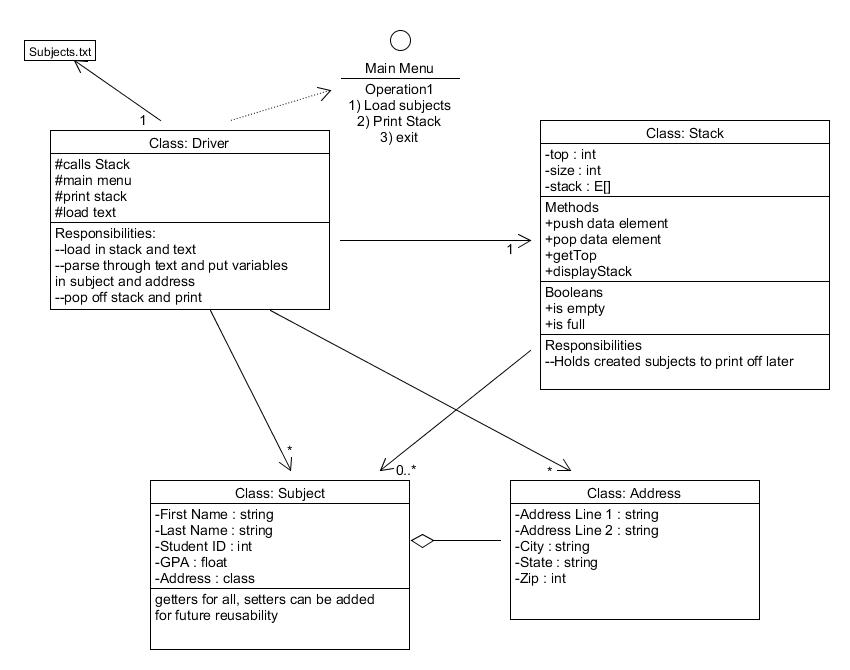
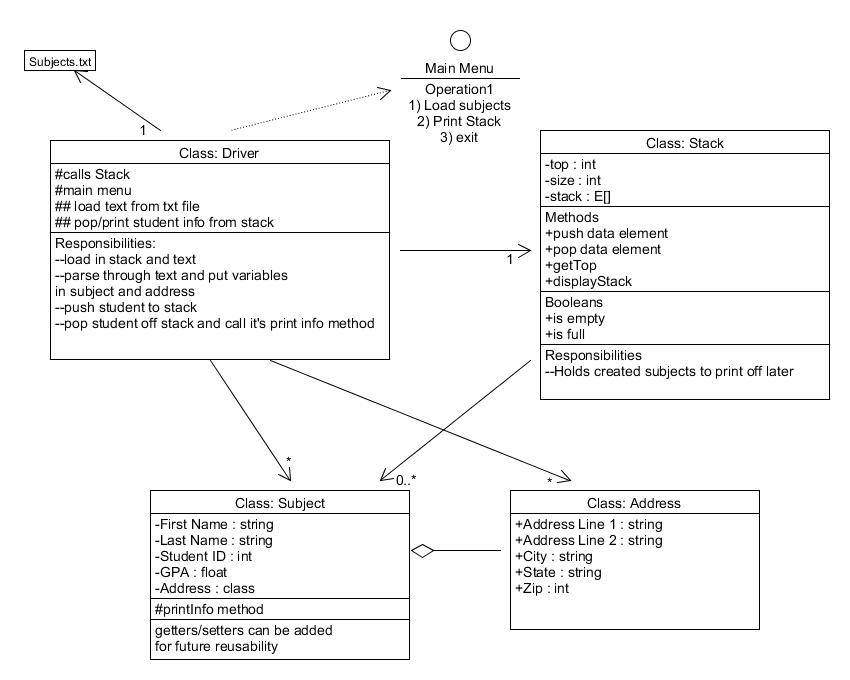
final edits and finished program, tweaked UML and algorithm

diff --git a/Student.java b/Student.java
@@ -26,6 +26,7 @@ public class Student
 	}
 	
 	//--CSV Constructor--//
+	//load in Address in constructor
 	public Student(String fn, String ln, String g, String i, Address ad)
 	{
 		//set variables 
@@ -37,7 +38,7 @@ public class Student
 	}
 	//will have to create instance of Address first when reading csv, then call new instance of Student
 	
-	//set getters and setters for future use
+	//create getters and setters for future use
 	
 	//was going to put this in the Driver, but realized I can write it here
 	void printInfo()
@@ -66,12 +67,10 @@ public class Student
 			//same print statement
 			System.out.printf("ID: %-6s \tName: %-20s \tAddress: %-55s \tGPA: %-5s\n", id, name, adrStr, gpa);
 			
-			
+		}	
 			//System.out.printf("ID: %-6s Name: %-10s %-10s Address: %-25s %-7s; %-15s, %-2s, %-5s GPA: %-5s\n", 
 			//id, firstName, lastName, addr.addrLine1, addr.addrLine2, addr.city, addr.state, addr.zip, gpa);
 	}
-}
-		
-		
+}	
 	
 	
